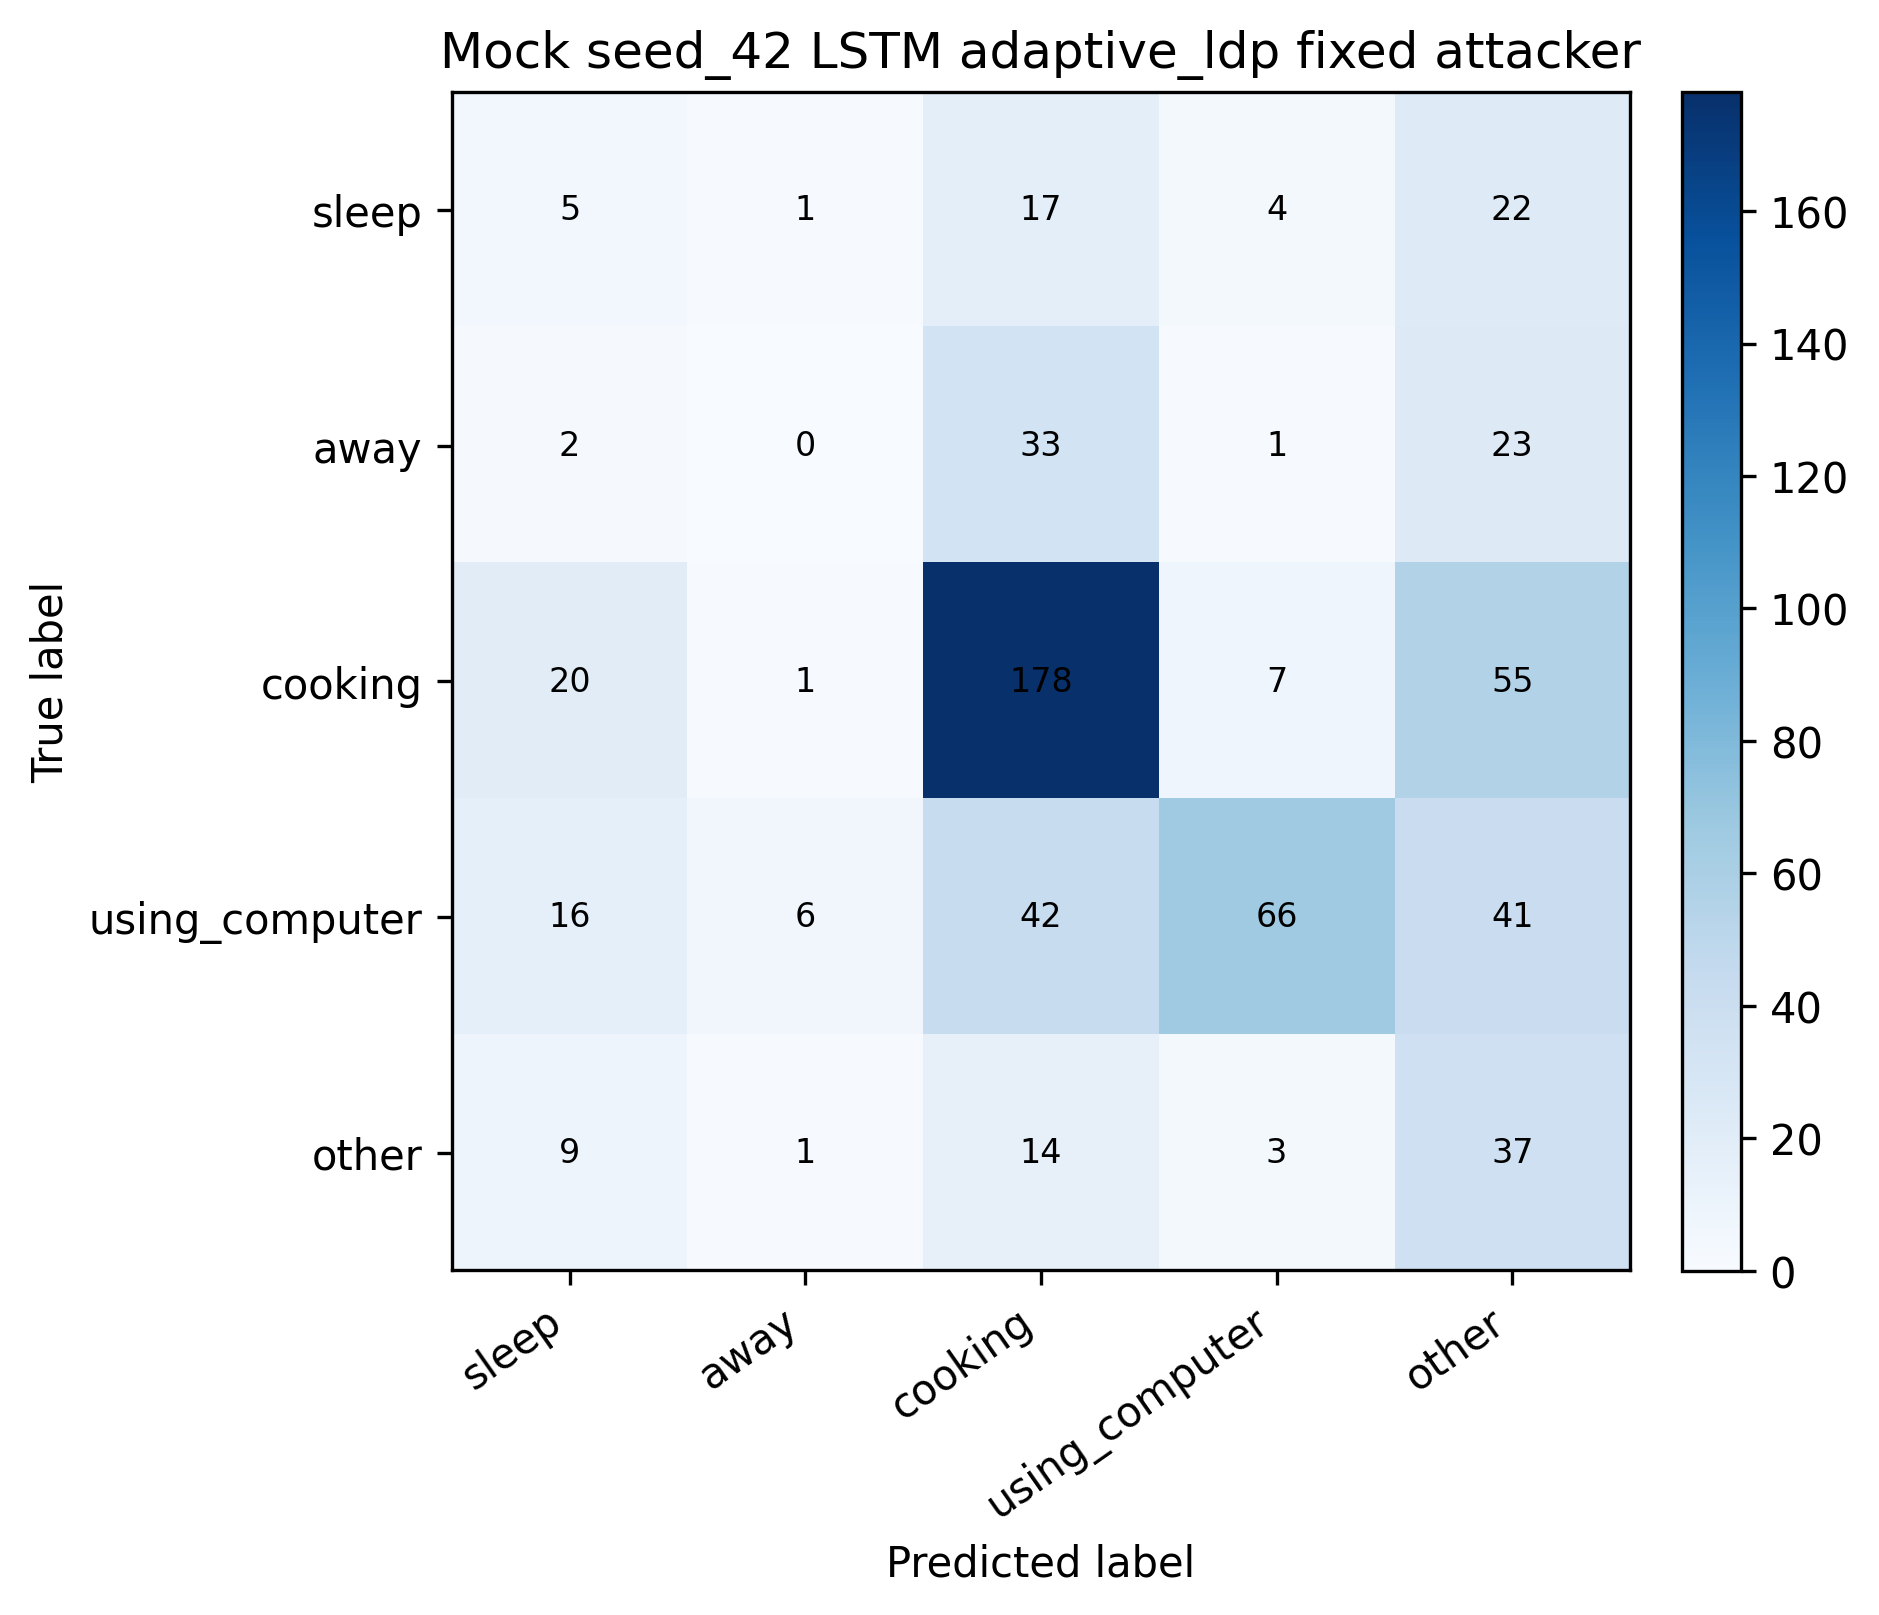
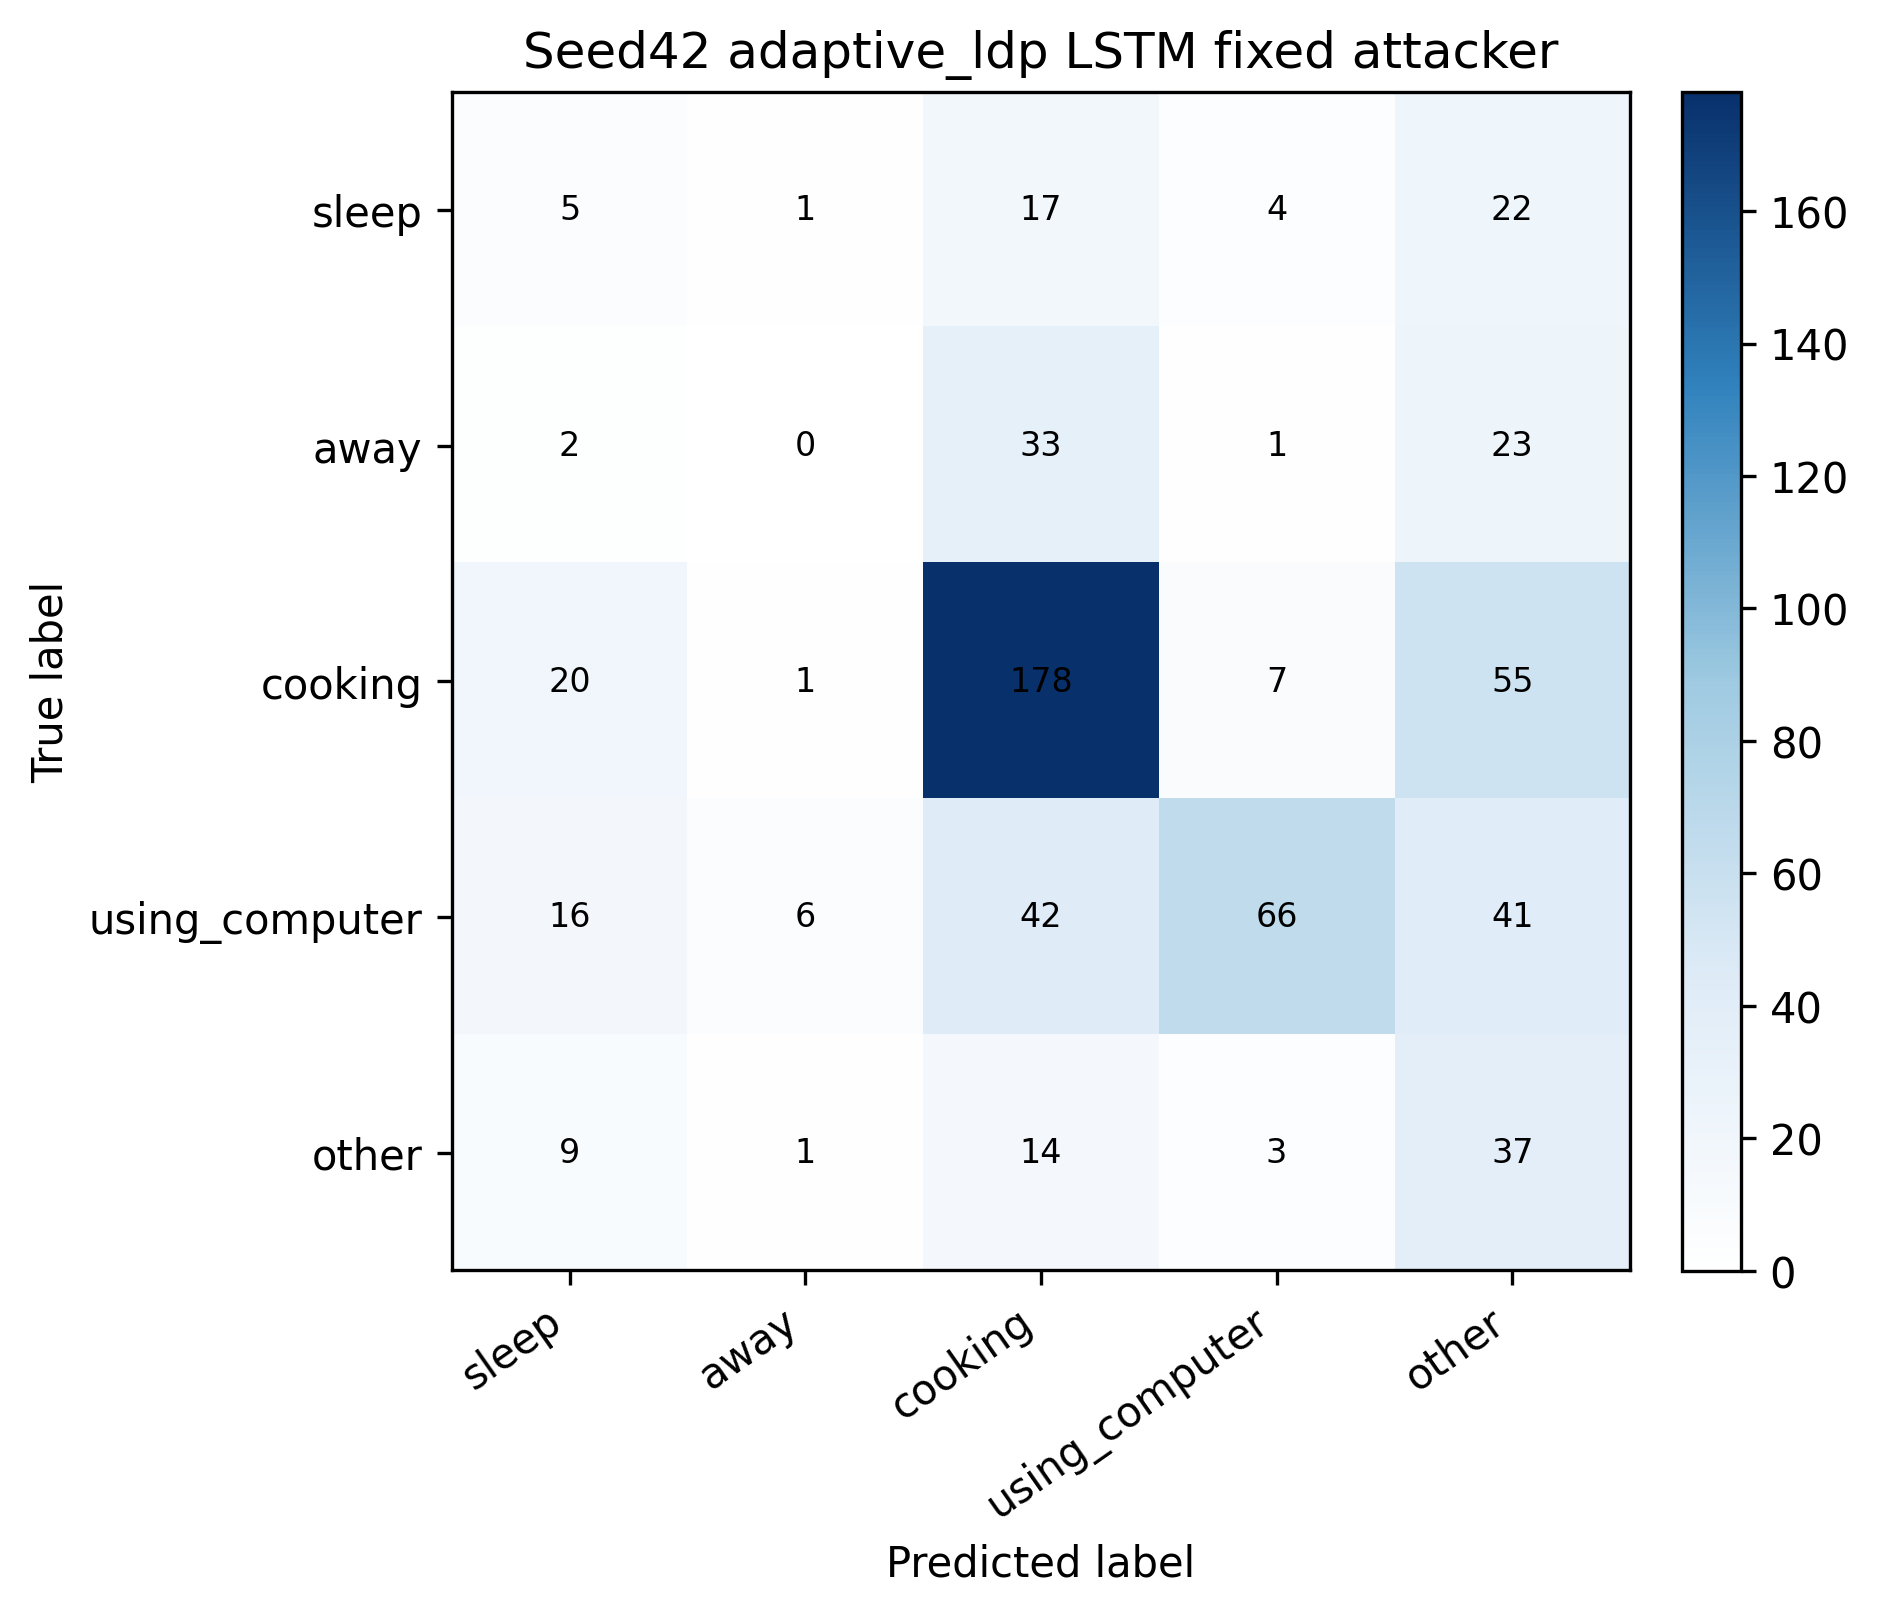
统一第四章混淆矩阵蓝白配色

diff --git a/scripts/final_thesis/generate_chapter4_figures.py b/scripts/final_thesis/generate_chapter4_figures.py
@@ -8,6 +8,7 @@ import json
 from pathlib import Path
 
 import matplotlib.pyplot as plt
+from matplotlib.colors import LinearSegmentedColormap
 import numpy as np
 import pandas as pd
 
@@ -27,6 +28,10 @@ PROFILE_ORDER = [
     "adaptive_traffic_only",
     "adaptive_edge_cap_on",
 ]
+CONFUSION_CMAP = LinearSegmentedColormap.from_list(
+    "paper_white_blue",
+    ["#ffffff", "#deebf7", "#9ecae1", "#3182bd", "#08306b"],
+)
 
 
 def rel(path: Path) -> str:
@@ -251,7 +256,7 @@ def generate_confusion(conf_path: str, output_name: str, title: str, normalize: 
         row_sums = plot_matrix.sum(axis=1, keepdims=True)
         plot_matrix = np.divide(plot_matrix, row_sums, out=np.zeros_like(plot_matrix), where=row_sums != 0)
     fig, ax = plt.subplots(figsize=(6.2, 5.5))
-    im = ax.imshow(plot_matrix, cmap="Blues")
+    im = ax.imshow(plot_matrix, cmap=CONFUSION_CMAP, vmin=0, vmax=max(1.0, float(plot_matrix.max())))
     ax.set_title(title)
     ax.set_xlabel("Predicted label")
     ax.set_ylabel("True label")
@@ -273,17 +278,17 @@ def generate_confusions() -> list[Path]:
         generate_confusion(
             "outputs/experiments/mock/seed_42/lstm/baseline/baseline_confusion.json",
             "thesis_fig4_07_confusion_mock_baseline.png",
-            "Mock seed_42 LSTM baseline confusion matrix",
+            "Seed42 LSTM baseline",
         ),
         generate_confusion(
             "outputs/experiments/mock/seed_42/lstm/adaptive_ldp/fixed_attacker/confusion.json",
             "thesis_fig4_08_confusion_mock_adaptive_lstm_fixed.png",
-            "Mock seed_42 LSTM adaptive_ldp fixed attacker",
+            "Seed42 adaptive_ldp LSTM fixed attacker",
         ),
         generate_confusion(
             "outputs/experiments/mock/seed_42/mlp/adaptive_ldp/fixed_attacker/confusion.json",
             "thesis_fig4_09_confusion_mock_mlp_fixed.png",
-            "Mock seed_42 MLP adaptive_ldp fixed attacker",
+            "Seed42 adaptive_ldp MLP fixed attacker",
         ),
     ]
 
@@ -451,6 +456,7 @@ def write_figure_audit(generated: list[Path]) -> None:
         "training_rerun_needed": False,
         "cooja_simulation_rerun_needed": False,
         "legend_notes": "All thesis parameter scan figures include legends for defended accuracy and MSE with axis labels.",
+        "confusion_matrix_style": "Unified white-to-deep-blue colormap for thesis confusion matrices.",
     }
     (SUMMARY_DIR / "thesis_chapter4_figure_audit.json").write_text(
         json.dumps(audit, ensure_ascii=False, indent=2), encoding="utf-8"
@@ -480,6 +486,7 @@ def write_figure_audit(generated: list[Path]) -> None:
             "",
             "## 图例与索引检查",
             "- LDP、noise、adaptive_ldp 参数扫描论文图均已包含 defended accuracy 与 MSE 图例，并标明 left axis / right axis。",
+            "- 论文混淆矩阵统一使用白色到深蓝色的蓝白色带。",
             "- `artifact_index.md` 与 `figure_table_list.md` 已加入本次论文专用图路径。",
             "- 早期 `real_uci_ldp_scan.png` 与 `real_uci_noise_scan.png` 仍可作为历史汇总图存在，但第四章改用本次重新绘制的论文专用图。",
             "",

diff --git a/scripts/final_thesis/rewrite_chapter4_docx.py b/scripts/final_thesis/rewrite_chapter4_docx.py
@@ -458,7 +458,8 @@ def main() -> None:
             f"- 非 Times New Roman run 数：{font_check['runs_with_non_times_new_romans']}",
             f"- 非宋体 eastAsia run 数：{font_check['runs_with_non_songti_east_asia']}",
             f"- 检查范围：{font_check['scope']}",
-            "- 目录：已设置 Word 打开时更新域；如果本机 Word 未自动刷新，请打开后右键更新目录。",
+            "- 目录：已通过本机 Word 自动化刷新目录和文档域。",
+            "- 混淆矩阵：论文用混淆矩阵已统一为白色到深蓝色的蓝白色带。",
         ]
     )
     (SUMMARY_DIR / "thesis_chapter4_rewrite_report.md").write_text("\n".join(lines) + "\n", encoding="utf-8")

diff --git a/outputs/summaries/final_thesis/thesis_chapter4_figure_audit.md b/outputs/summaries/final_thesis/thesis_chapter4_figure_audit.md
@@ -30,6 +30,7 @@
 
 ## 图例与索引检查
 - LDP、noise、adaptive_ldp 参数扫描论文图均已包含 defended accuracy 与 MSE 图例，并标明 left axis / right axis。
+- 论文混淆矩阵统一使用白色到深蓝色的蓝白色带。
 - `artifact_index.md` 与 `figure_table_list.md` 已加入本次论文专用图路径。
 - 早期 `real_uci_ldp_scan.png` 与 `real_uci_noise_scan.png` 仍可作为历史汇总图存在，但第四章改用本次重新绘制的论文专用图。
 

diff --git a/outputs/summaries/final_thesis/thesis_chapter4_rewrite_report.md b/outputs/summaries/final_thesis/thesis_chapter4_rewrite_report.md
@@ -40,4 +40,4 @@
 - 非宋体 eastAsia run 数：0
 - 检查范围：仅检查本次重写的第四章正文与图题
 - 目录：已通过本机 Word 自动化刷新目录和文档域。
-- 打开验证：本机 Word 自动化能够打开、更新并保存输出稿；PNG 渲染预览工具因当前环境缺少 LibreOffice 未执行成功。
+- 混淆矩阵：论文用混淆矩阵已统一为白色到深蓝色的蓝白色带。
